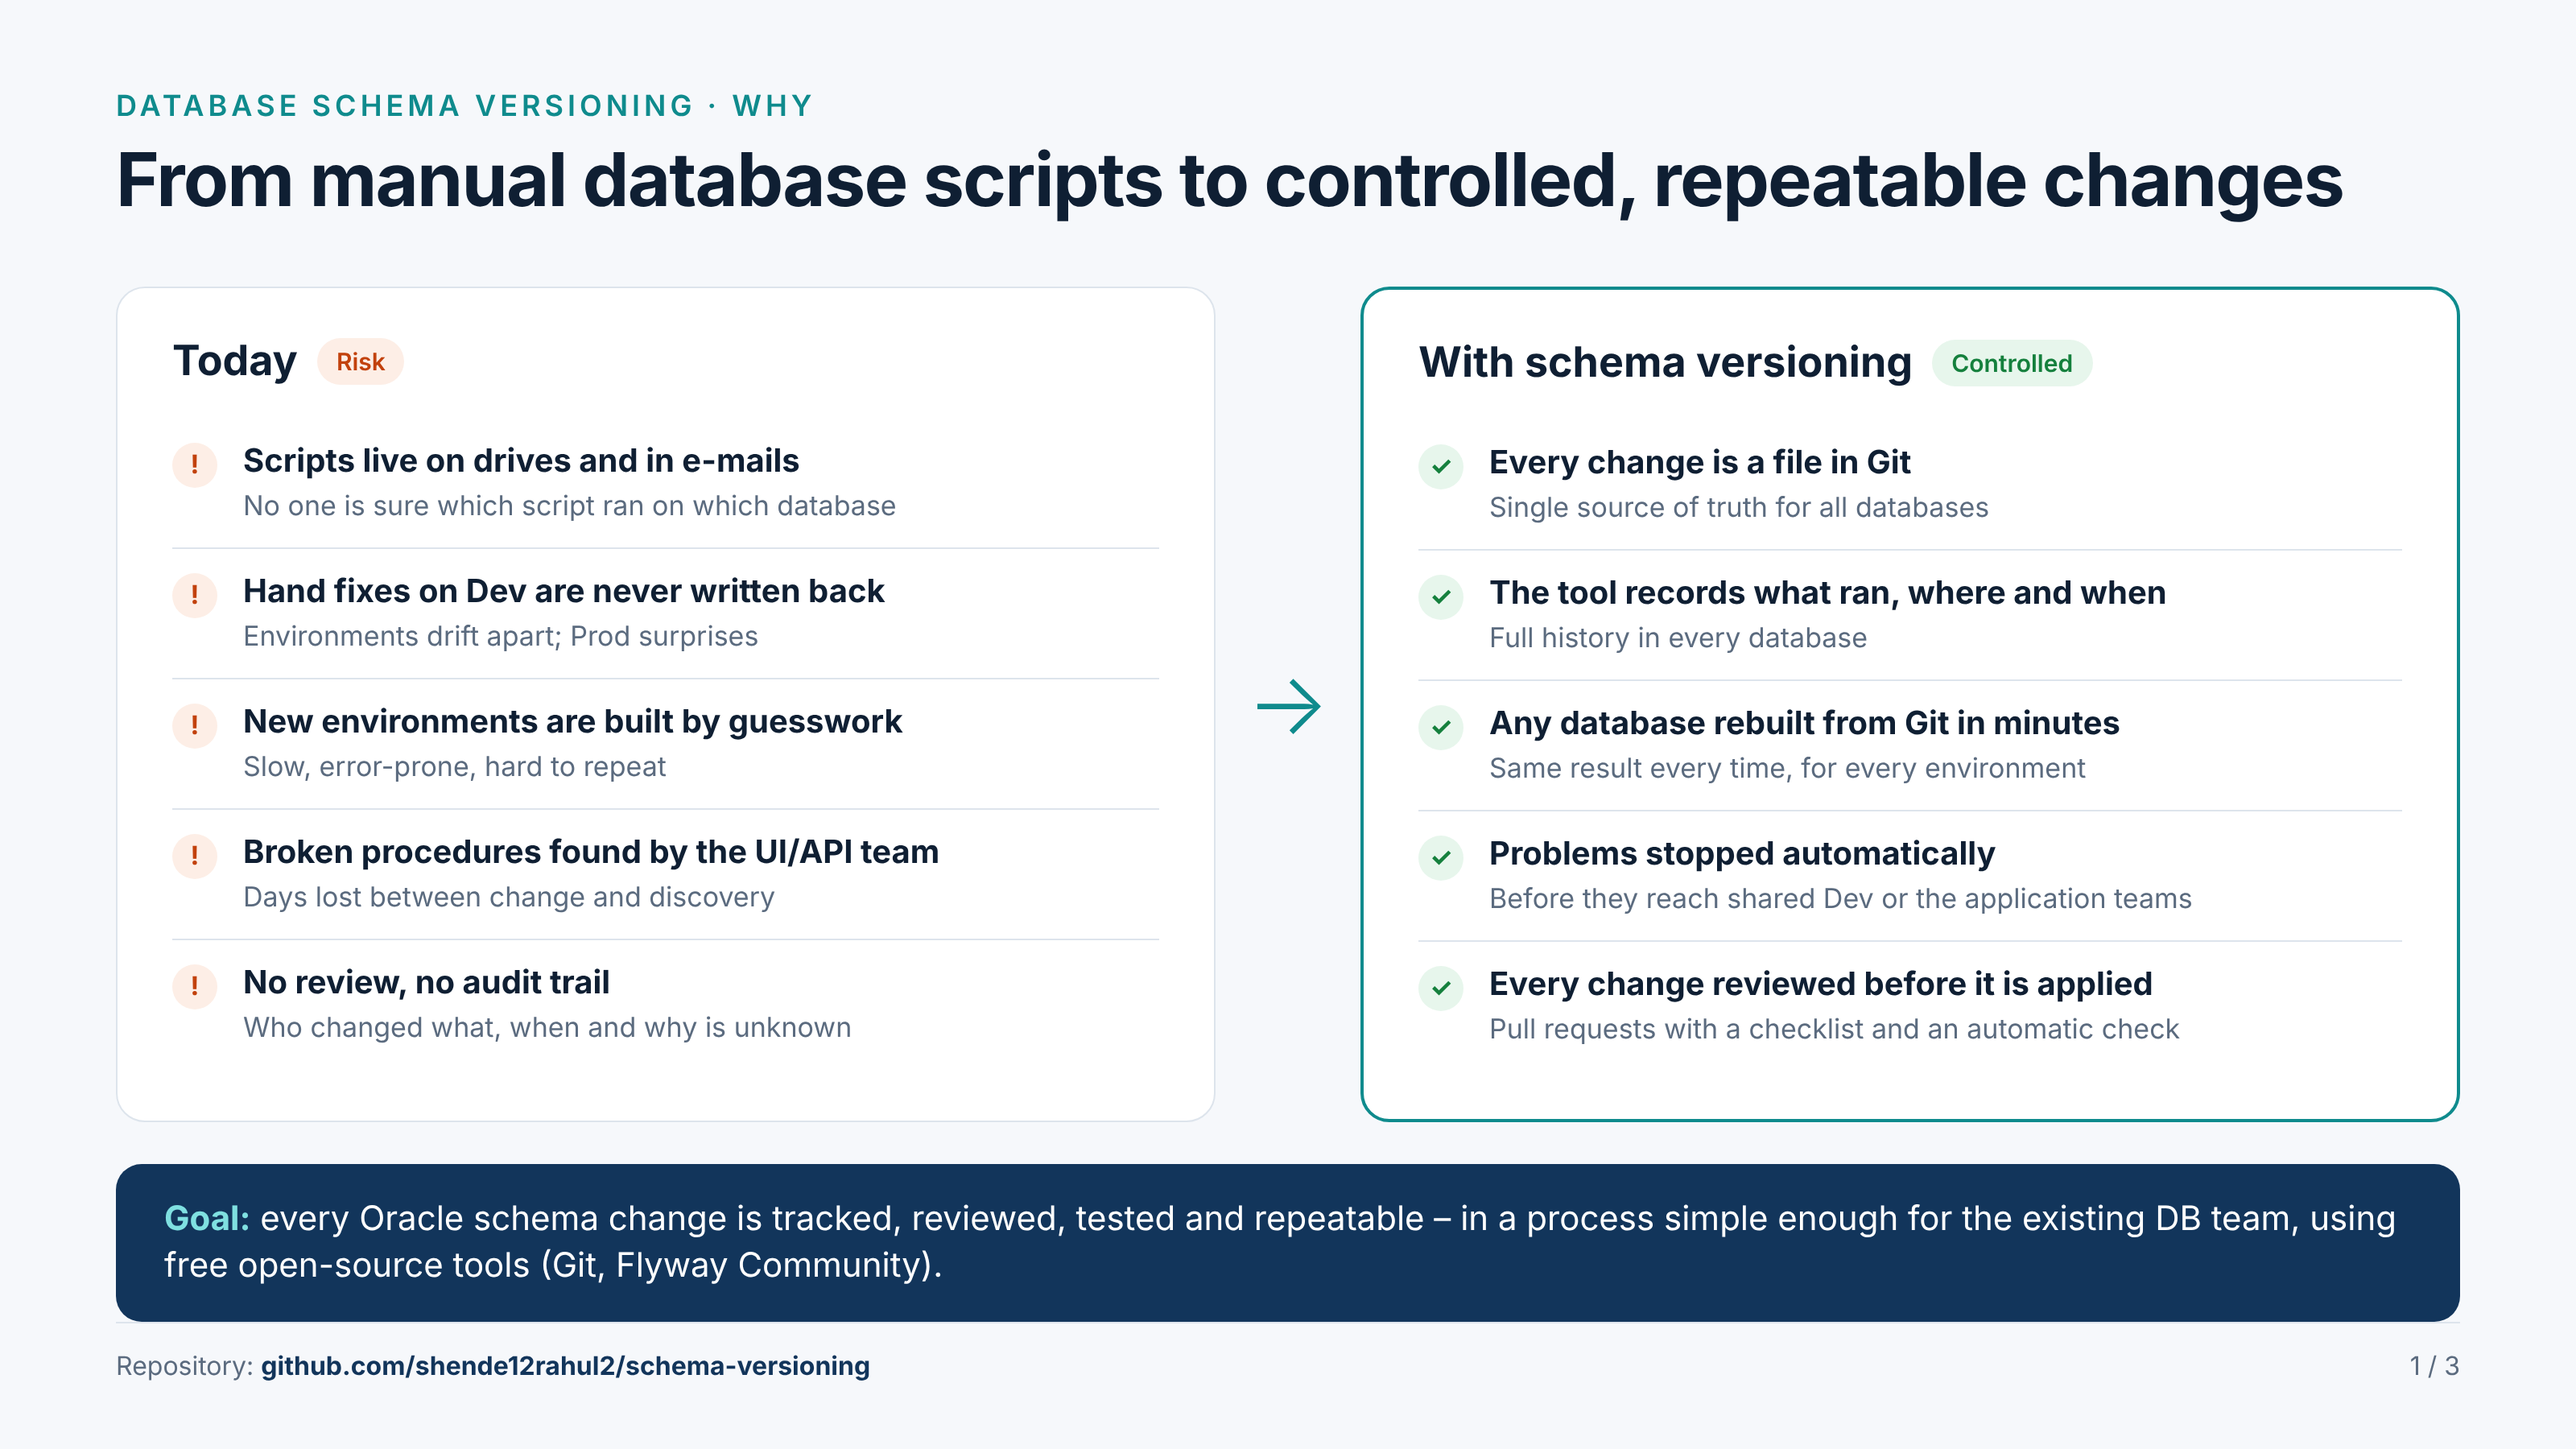
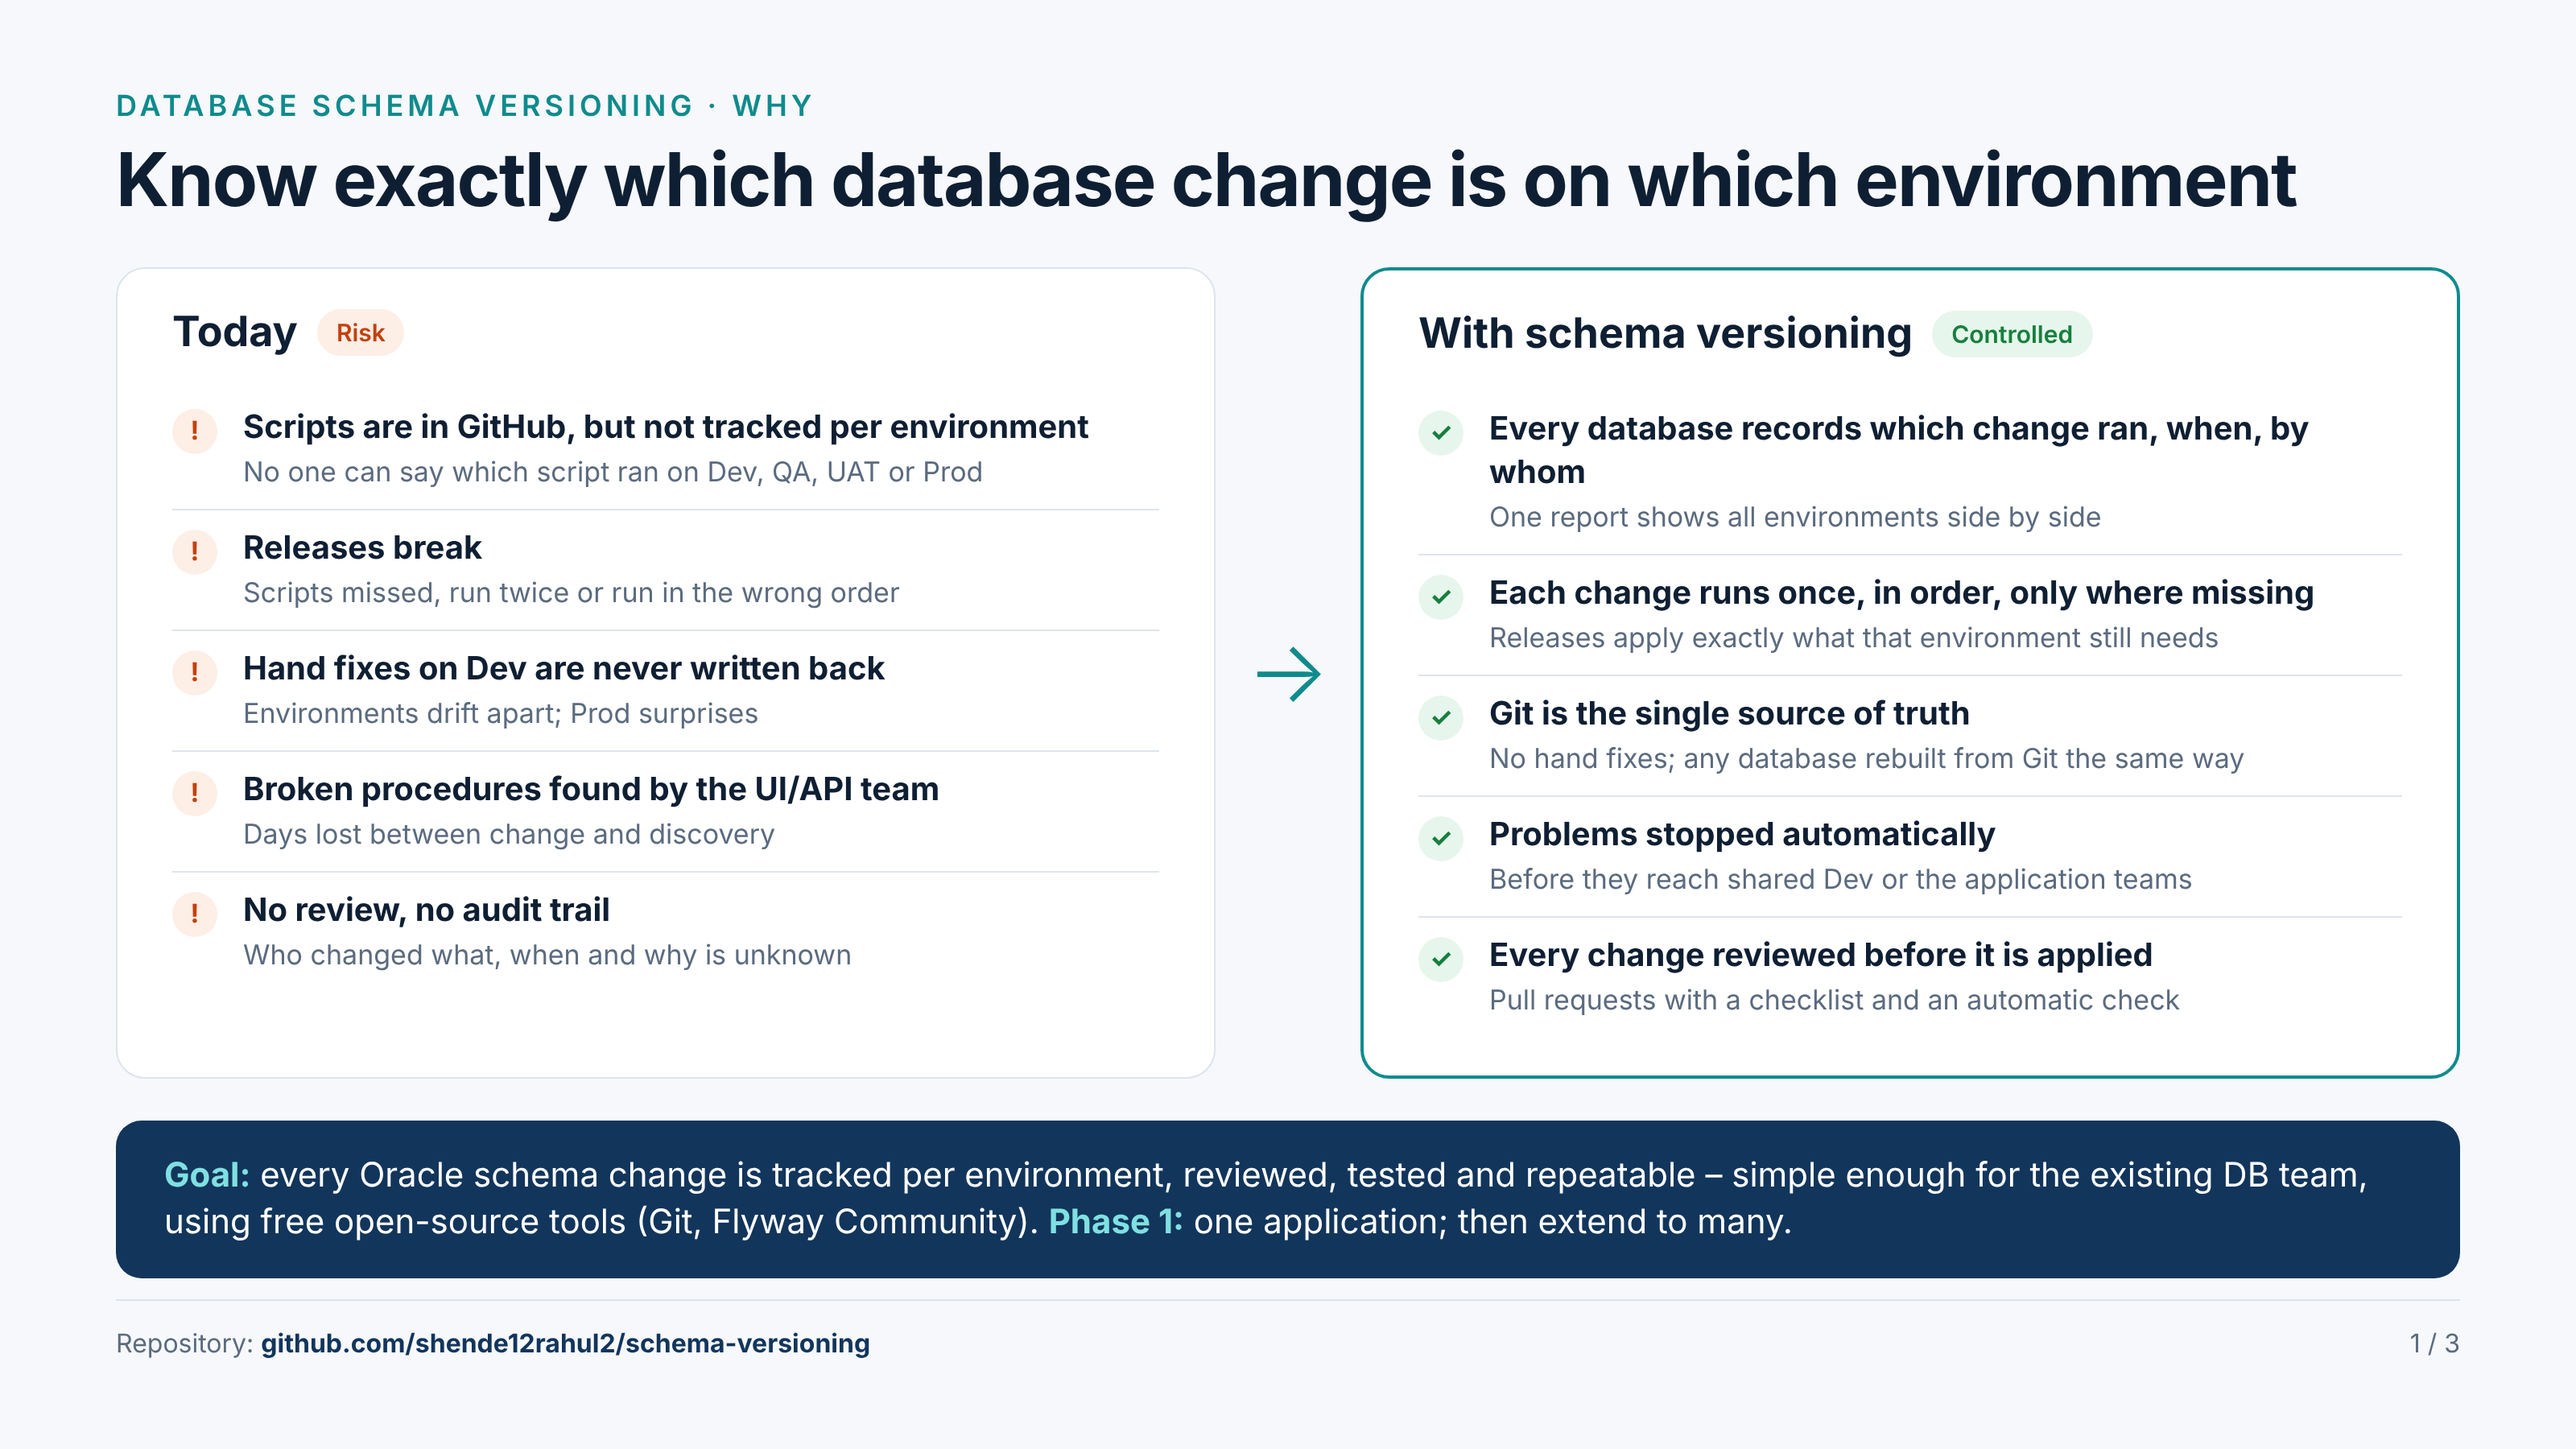
Add release report: which change is on which environment
- tools\db report [env ...]: reads Flyway history from each environment
  (read-only) and prints one Markdown table - change x environment, with
  OK/PENDING/FAILED and a "same everywhere" column (PowerShell on Windows,
  Python on Linux/Mac; identical output)
- tools/db: extra options are now passed through for info/migrate/validate
- guide: problem statement corrected (scripts are in GitHub, but not tracked
  per environment), section 5.1 for the report, scope note for phase 1
  (one application) and the coming one-to-many phase
- management images updated; scenario test now 72 checks

Claude-Session: https://claude.ai/code/session_014VPCjMo3zKaPVYz232bvLu

diff --git a/tools/env_report.py b/tools/env_report.py
@@ -1,0 +1,118 @@
+"""Which change is on which environment? (Linux/Mac version of tools/env-report.ps1)
+
+Called by: tools/db.sh report [env ...]
+Input:     one "<env>=<file>" argument per environment, each file holding the
+           output of "flyway info -outputType=json" for that environment.
+Output:    a Markdown table: one row per change, one column per environment.
+"""
+import json
+import sys
+from datetime import datetime
+
+
+def load(path):
+    """Return the Flyway JSON in a file (skipping any lines before it), or None."""
+    try:
+        text = open(path, encoding="utf-8", errors="replace").read()
+    except OSError:
+        return None
+    start = text.find("{")
+    if start < 0:
+        return None
+    try:
+        data = json.loads(text[start:])
+    except ValueError:
+        return None
+    return None if data.get("error") else data
+
+
+def cell(m):
+    """Short text for one migration's state in one environment."""
+    state = m.get("state", "")
+    day = (m.get("installedOnUTC") or "")[:10]
+    if state in ("Success", "Baseline"):
+        return "OK " + day
+    if state == "Out of Order":
+        return "OK " + day + " (late)"
+    if state in ("Ignored (Baseline)", "Below Baseline"):
+        return "baseline"
+    if state == "Pending":
+        return "PENDING"
+    if state == "Outdated":
+        return "CHANGED - not applied"
+    if state == "Failed":
+        return "FAILED"
+    if state.startswith("Missing"):
+        return "applied, file removed"
+    if state.startswith("Future"):
+        return "newer than Git"
+    return state or "-"
+
+
+def rows_for(data):
+    """{row key: (sort key, label, cell text)} for one environment."""
+    rows = {}
+    for m in data.get("migrations", []):
+        state = m.get("state", "")
+        version = m.get("version") or ""
+        if version:                                   # V file (or the baseline row)
+            key = "V:" + version
+            label = "V" + version + "  " + m.get("description", "")
+            sort = (0, int(version) if version.isdigit() else 0, version)
+            # Prefer the row that records an installation (baseline over "Ignored (Baseline)").
+            if key in rows and not m.get("installedOnUTC"):
+                continue
+        else:                                         # R file: keep its latest, non-superseded state
+            if state == "Superseded":
+                continue
+            key = "R:" + m.get("description", "")
+            label = "R  " + m.get("description", "")
+            sort = (1, 0, m.get("description", ""))
+        rows[key] = (sort, label, cell(m))
+    return rows
+
+
+def main(args):
+    envs, per_env = [], {}
+    for arg in args:
+        name, _, path = arg.partition("=")
+        envs.append(name)
+        data = load(path)
+        per_env[name] = rows_for(data) if data is not None else None
+
+    labels = {}
+    for rows in per_env.values():
+        for key, (sort, label, _) in (rows or {}).items():
+            labels[key] = (sort, label)
+
+    print("## Which change is on which environment")
+    print()
+    print("Generated " + datetime.now().strftime("%Y-%m-%d %H:%M") + " by `tools\\db report`.")
+    print()
+    print("| Change | " + " | ".join(envs) + " | Same everywhere |")
+    print("|---|" + "---|" * len(envs) + "---|")
+    for key, (_, label) in sorted(labels.items(), key=lambda kv: kv[1][0]):
+        cells = []
+        for env in envs:
+            rows = per_env[env]
+            cells.append("unreachable" if rows is None else rows.get(key, (None, None, "-"))[2])
+        # Compare reachable environments only, without dates ("OK <date>" = applied).
+        same = len({c.split(" ")[0] for c in cells if c != "unreachable"}) <= 1
+        print("| " + label + " | " + " | ".join(cells) + " | " + ("yes" if same else "**NO**") + " |")
+
+    print()
+    for env in envs:
+        rows = per_env[env]
+        if rows is None:
+            print("- **" + env + "**: could not connect (check conf/env/" + env + ".conf and the password)")
+            continue
+        cells = [c for (_, _, c) in rows.values()]
+        pending = sum(c in ("PENDING", "CHANGED - not applied") for c in cells)
+        failed = sum(c == "FAILED" for c in cells)
+        status = "up to date" if not pending and not failed else \
+            f"{pending} change(s) waiting" + (f", {failed} FAILED" if failed else "")
+        print("- **" + env + "**: " + status)
+
+
+if __name__ == "__main__":
+    main(sys.argv[1:])

diff --git a/docs/DEVELOPER_GUIDE.md b/docs/DEVELOPER_GUIDE.md
@@ -23,9 +23,15 @@ See [section 11](#11-practice-lab-and-test-results) for the test results.
 
 ## 1. Why we are doing this
 
+Our SQL scripts are already in GitHub, but nothing records **which script has
+been applied to which environment**. Developers change the schema, and at
+release time nobody can say for sure what is on Dev, QA, UAT or Prod – changes
+are missed, run twice or run in the wrong order, and releases break.
+
 | Today (legacy) | With schema versioning |
 |---|---|
-| Scripts on shared drives / e-mail; nobody is sure which ran where | Every change is a file in Git; Flyway records exactly what ran, when, in each database |
+| Scripts are in GitHub, but which ones ran on which environment is not tracked | Each database records exactly which change ran, when and by whom; `tools\db report` shows every environment side by side |
+| Releases break: a script missed on QA, run twice on Dev, or run in the wrong order | Flyway runs each change once, in order, and only what is still missing on that environment |
 | Hand fixes on Dev that never reach the scripts (e.g. our 2024 `EMAIL` hotfix) | No hand changes; Git is the single source of truth |
 | Building a new environment = guesswork | `V1` + all files rebuilds any schema from empty, the same way every time |
 | A broken procedure is found by the UI team | Broken (INVALID) objects stop the deployment immediately |
@@ -299,11 +305,22 @@ Executing SQL callback: afterMigrate - check invalid
 
 ### Step 7 – Later environments (QA, UAT, Prod)
 
-For each one: add `conf/env/<env>.conf` (URL and user only, `cleanDisabled=true`),
-compare it with Git as in step 4, `tools\db baseline <env>` once, then deploy
-**the same commit** that was tested on Dev with `tools\db migrate <env>`.
-If an environment is missing changes that Dev already has, apply them through
-the normal V/R files – never by hand.
+For each one: add `conf/env/<env>.conf` (URL, user, `cleanDisabled=true` and
+`flyway.placeholders.expected_database`), compare it with Git as in step 4,
+`tools\db baseline <env>` once, then deploy **the same commit** that was tested
+on Dev with `tools\db migrate <env>`. Flyway applies exactly the changes that
+environment is still missing – check them first with `tools\db report`
+([5.1](#51-which-change-is-on-which-environment)). Never apply anything by hand.
+
+
+### Scope: one application now, more later
+
+This first phase is **one application ↔ one schema**: one set of V/R files,
+deployed to each environment of that application. The next phase extends it to
+**one-to-many** (several applications or schemas). The same rules, commands and
+checks carry over; what will change is the layout (one migrations folder and
+one set of `conf/env` files per schema) and the report (one per application).
+That design will be added to this guide when the phase starts.
 
 ---
 
@@ -366,6 +383,45 @@ tools\db migrate dev
 | `tools\db reset [env]` | wipe & rebuild a **developer** database (refused on shared ones) |
 | `tools\db baseline <env>` | one-time: mark an existing database as "at V1" |
 | `tools\db repair <env>` | only after a failed V file ([8.1](#81-a-v-file-failed-half-way)) |
+| `tools\db report [env …]` | **which change is on which environment** ([5.1](#51-which-change-is-on-which-environment)) |
+
+### 5.1 Which change is on which environment?
+
+Every database keeps its own history (`flyway_schema_history`): which change
+ran, when, and by whom. `tools\db report` reads it from every shared
+environment (all `conf/env/*.conf` except `developer` and `local-*`, or the ones
+you name) and puts them side by side. It only reads – nothing is changed.
+
+```bat
+tools\db report
+tools\db report dev qa uat prod
+```
+
+Output from the lab, shortened (shared Dev behind a developer database, QA not reachable):
+
+```text
+| Change | dev | developer | qa | Same everywhere |
+|---|---|---|---|---|
+| V1  initial schema | OK 2026-10-07 | OK 2026-10-07 | unreachable | yes |
+| V20261007100000  LOS1234 add pan to customer | OK 2026-10-07 | OK 2026-10-07 | unreachable | yes |
+| V20261008100000  LOS1300 add branch code | PENDING | OK 2026-10-07 | unreachable | **NO** |
+| R  20 procedure add customer | PENDING | OK 2026-10-07 | unreachable | **NO** |
+
+- **dev**: 5 change(s) waiting
+- **qa**: could not connect (check conf/env/qa.conf and the password)
+```
+
+| Cell | Meaning |
+|---|---|
+| `OK <date>` | applied on that date (`(late)` = merged after newer changes – fine) |
+| `PENDING` | in Git, not yet applied here – the next `migrate` will apply it |
+| `FAILED` | failed here – see [8.1](#81-a-v-file-failed-half-way) |
+| `applied, file removed` | ran here, but its R file was deleted (e.g. a dropped object) |
+| `newer than Git` | this database has a change your Git checkout does not – `git pull` |
+
+Use it **before a release** (what will `migrate` apply to QA/Prod?) and
+**after** (is everything applied everywhere?). The output is a Markdown table:
+paste it into the release note or the pull request.
 
 ---
 
@@ -833,7 +889,7 @@ set FLYWAY_PASSWORD=Lab_Passw0rd
 | – | Wrong database stopped; `reset` refused on a non-developer schema | ✅ |
 | – | Pull-request check: passes a good change, fails an edited merged V file and an unguarded drop | ✅ |
 
-**70 automated checks passed** on a fresh lab (Oracle 23 Free, Flyway 13.9.0 via
+**72 automated checks passed** on a fresh lab (Oracle 23 Free, Flyway 13.9.0 via
 Docker, no Flyway installed locally). Maintainers can repeat the whole run:
 
 ```bash

diff --git a/README.md b/README.md
@@ -14,6 +14,7 @@ All changes to our Oracle database are SQL files in this repository.
 - **Procedure / view / package / trigger / grant** → edit its **R file**
 - Test on your developer database: `tools\db migrate developer`
 - Pull request → review → merge → DB lead runs `tools\db migrate dev`
+- **Which change is on which environment?** `tools\db report`
 - Never change shared Dev by hand. Never edit a merged V file.
 - Safety checks run by themselves: wrong database, wiping a shared schema, edited V files,
   broken objects – and a **Database check** on every pull request (GitHub Actions).

diff --git a/docs/WORKFLOW.md b/docs/WORKFLOW.md
@@ -171,6 +171,7 @@ Windows: `tools\db …`  Linux/Mac: `tools/db.sh …`
 | `tools\db validate dev` | Check Git files still match what ran on Dev |
 | `tools\db baseline dev` | One-time setup only |
 | `tools\db repair dev` | Only after a failed V file (see section 5) |
+| `tools\db report` | **Which change is on which environment** – one table for Dev, QA, UAT, Prod |
 
 Before running, set your password for that session:
 

diff --git a/local/README.md b/local/README.md
@@ -305,7 +305,7 @@ tools\db migrate local-dev
 ```bash
 local/test-all-scenarios.sh
 ```
-Runs scenarios 01–22 on a fresh lab and checks every result (70 checks, about
+Runs scenarios 01–22 on a fresh lab and checks every result (72 checks, about
 5 minutes; Linux, Mac or Git Bash). It deletes the lab data and resets
 `db/migrations/` to Git.
 
